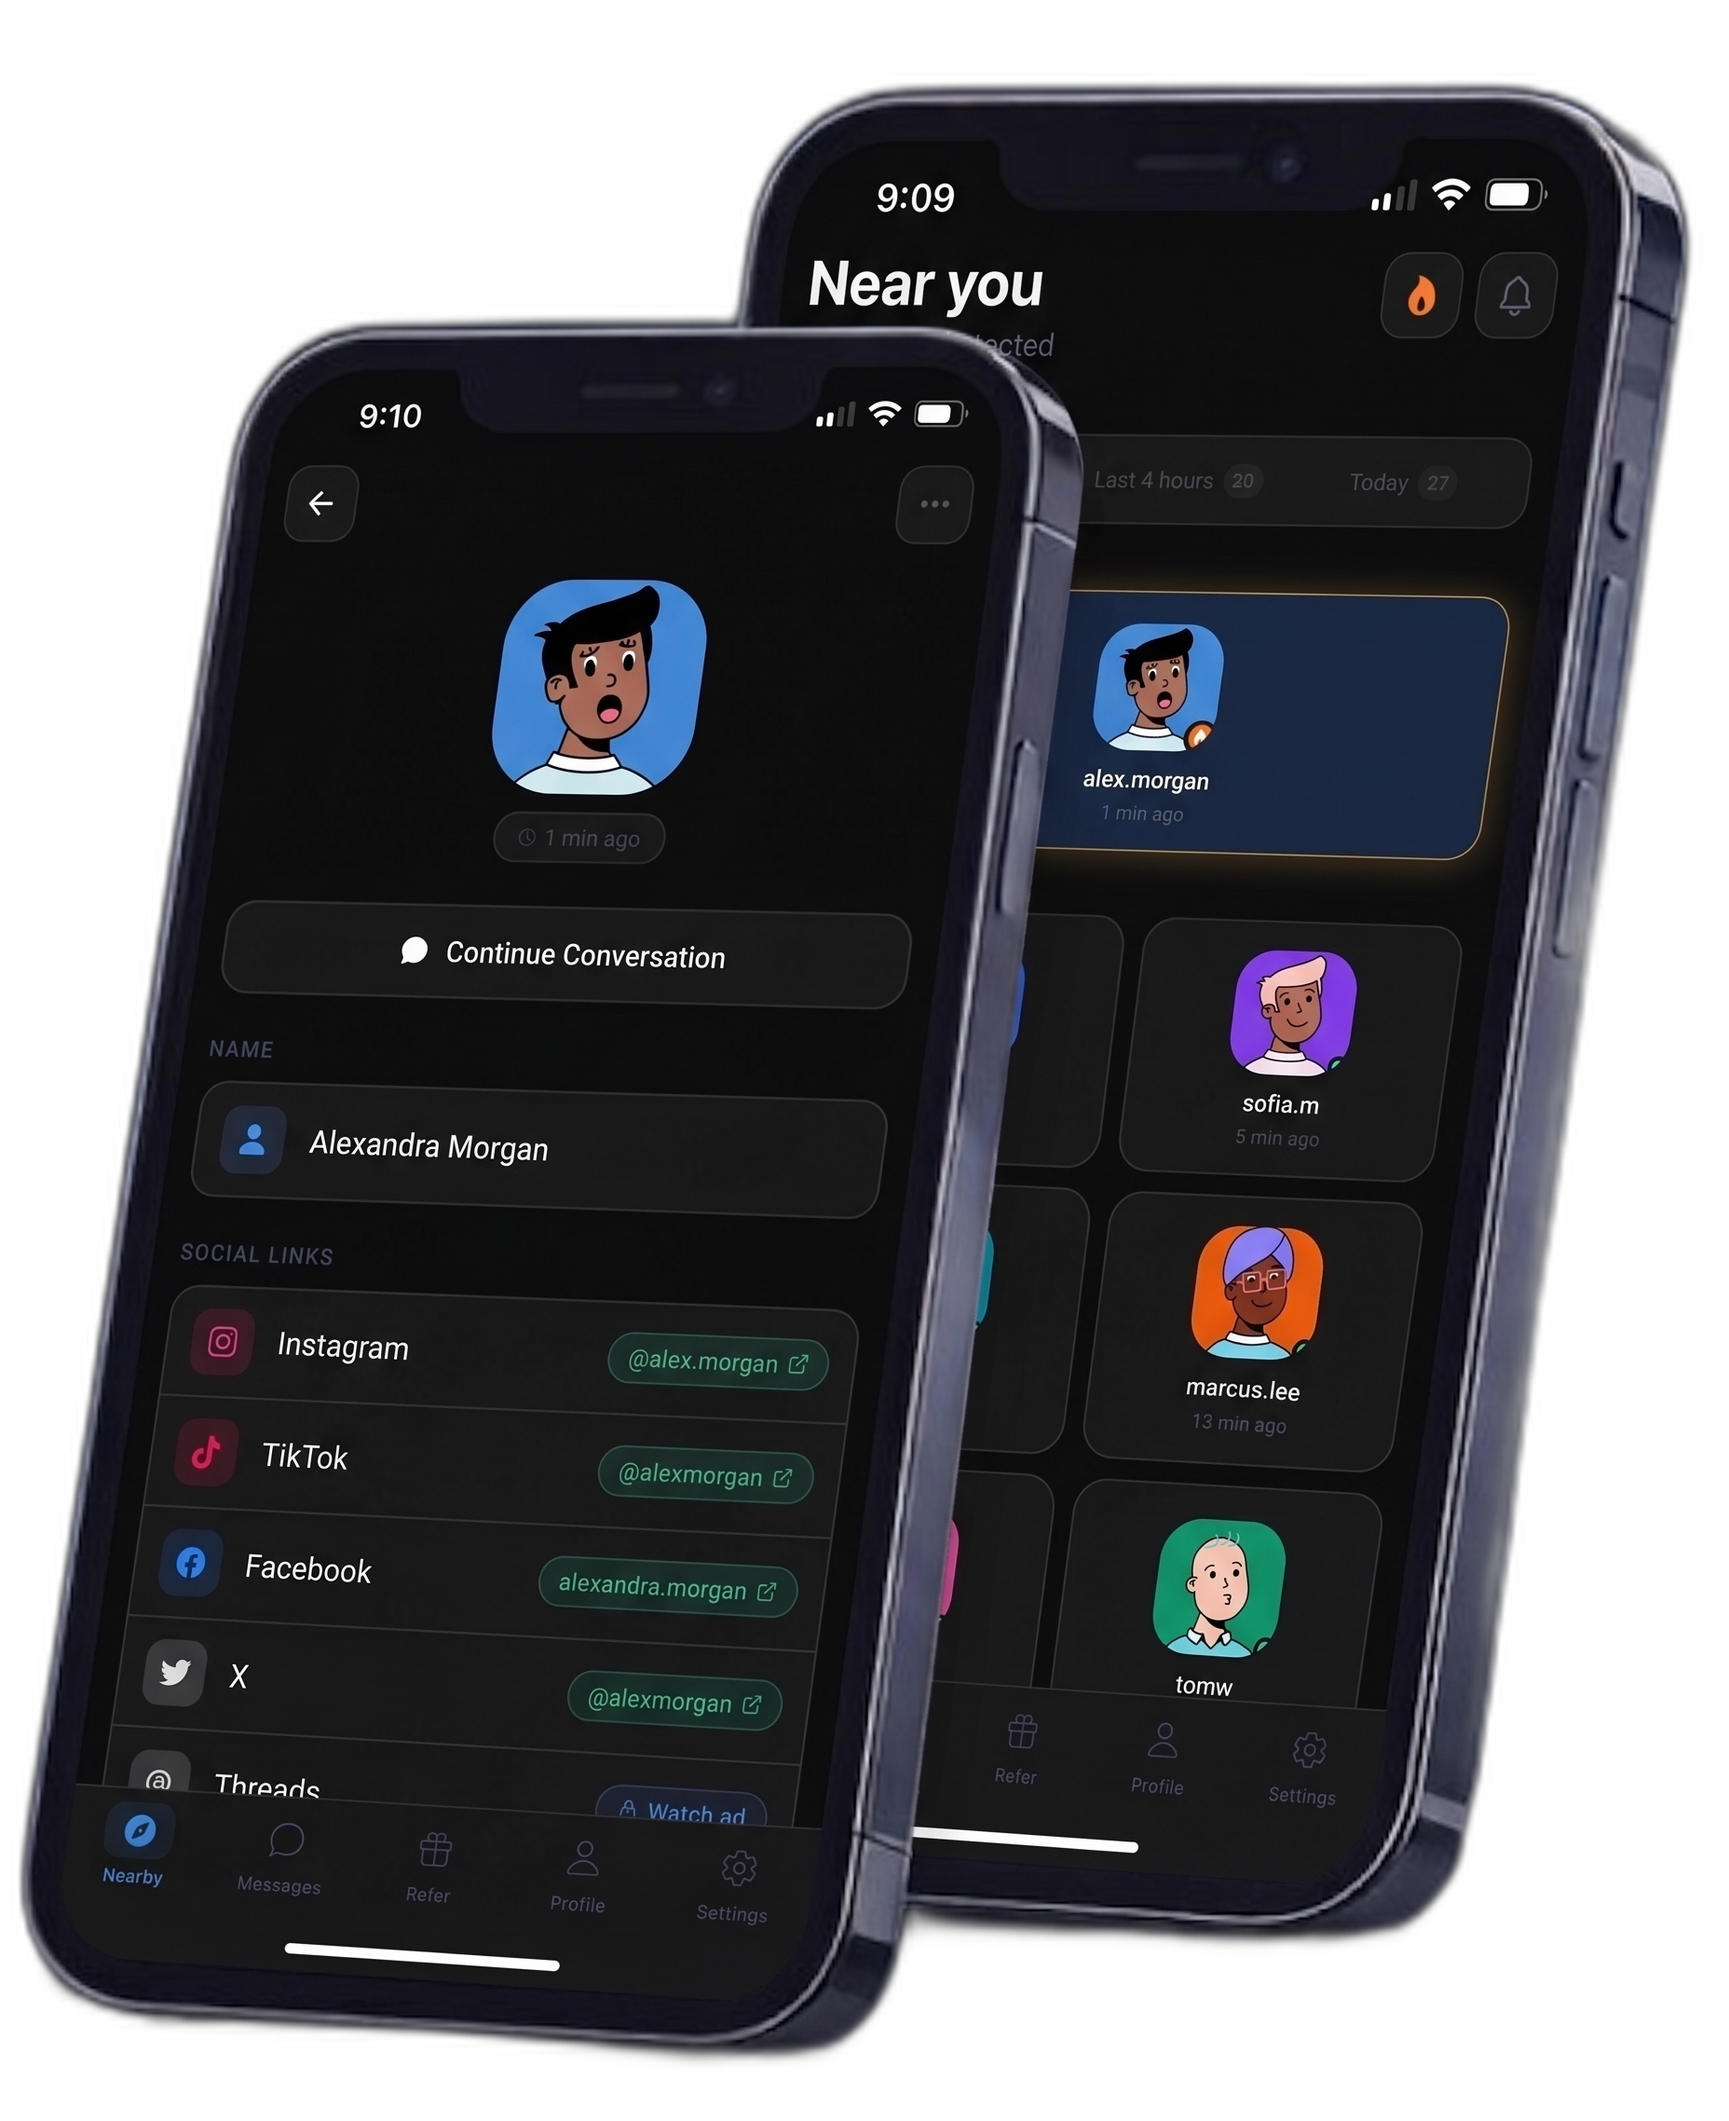
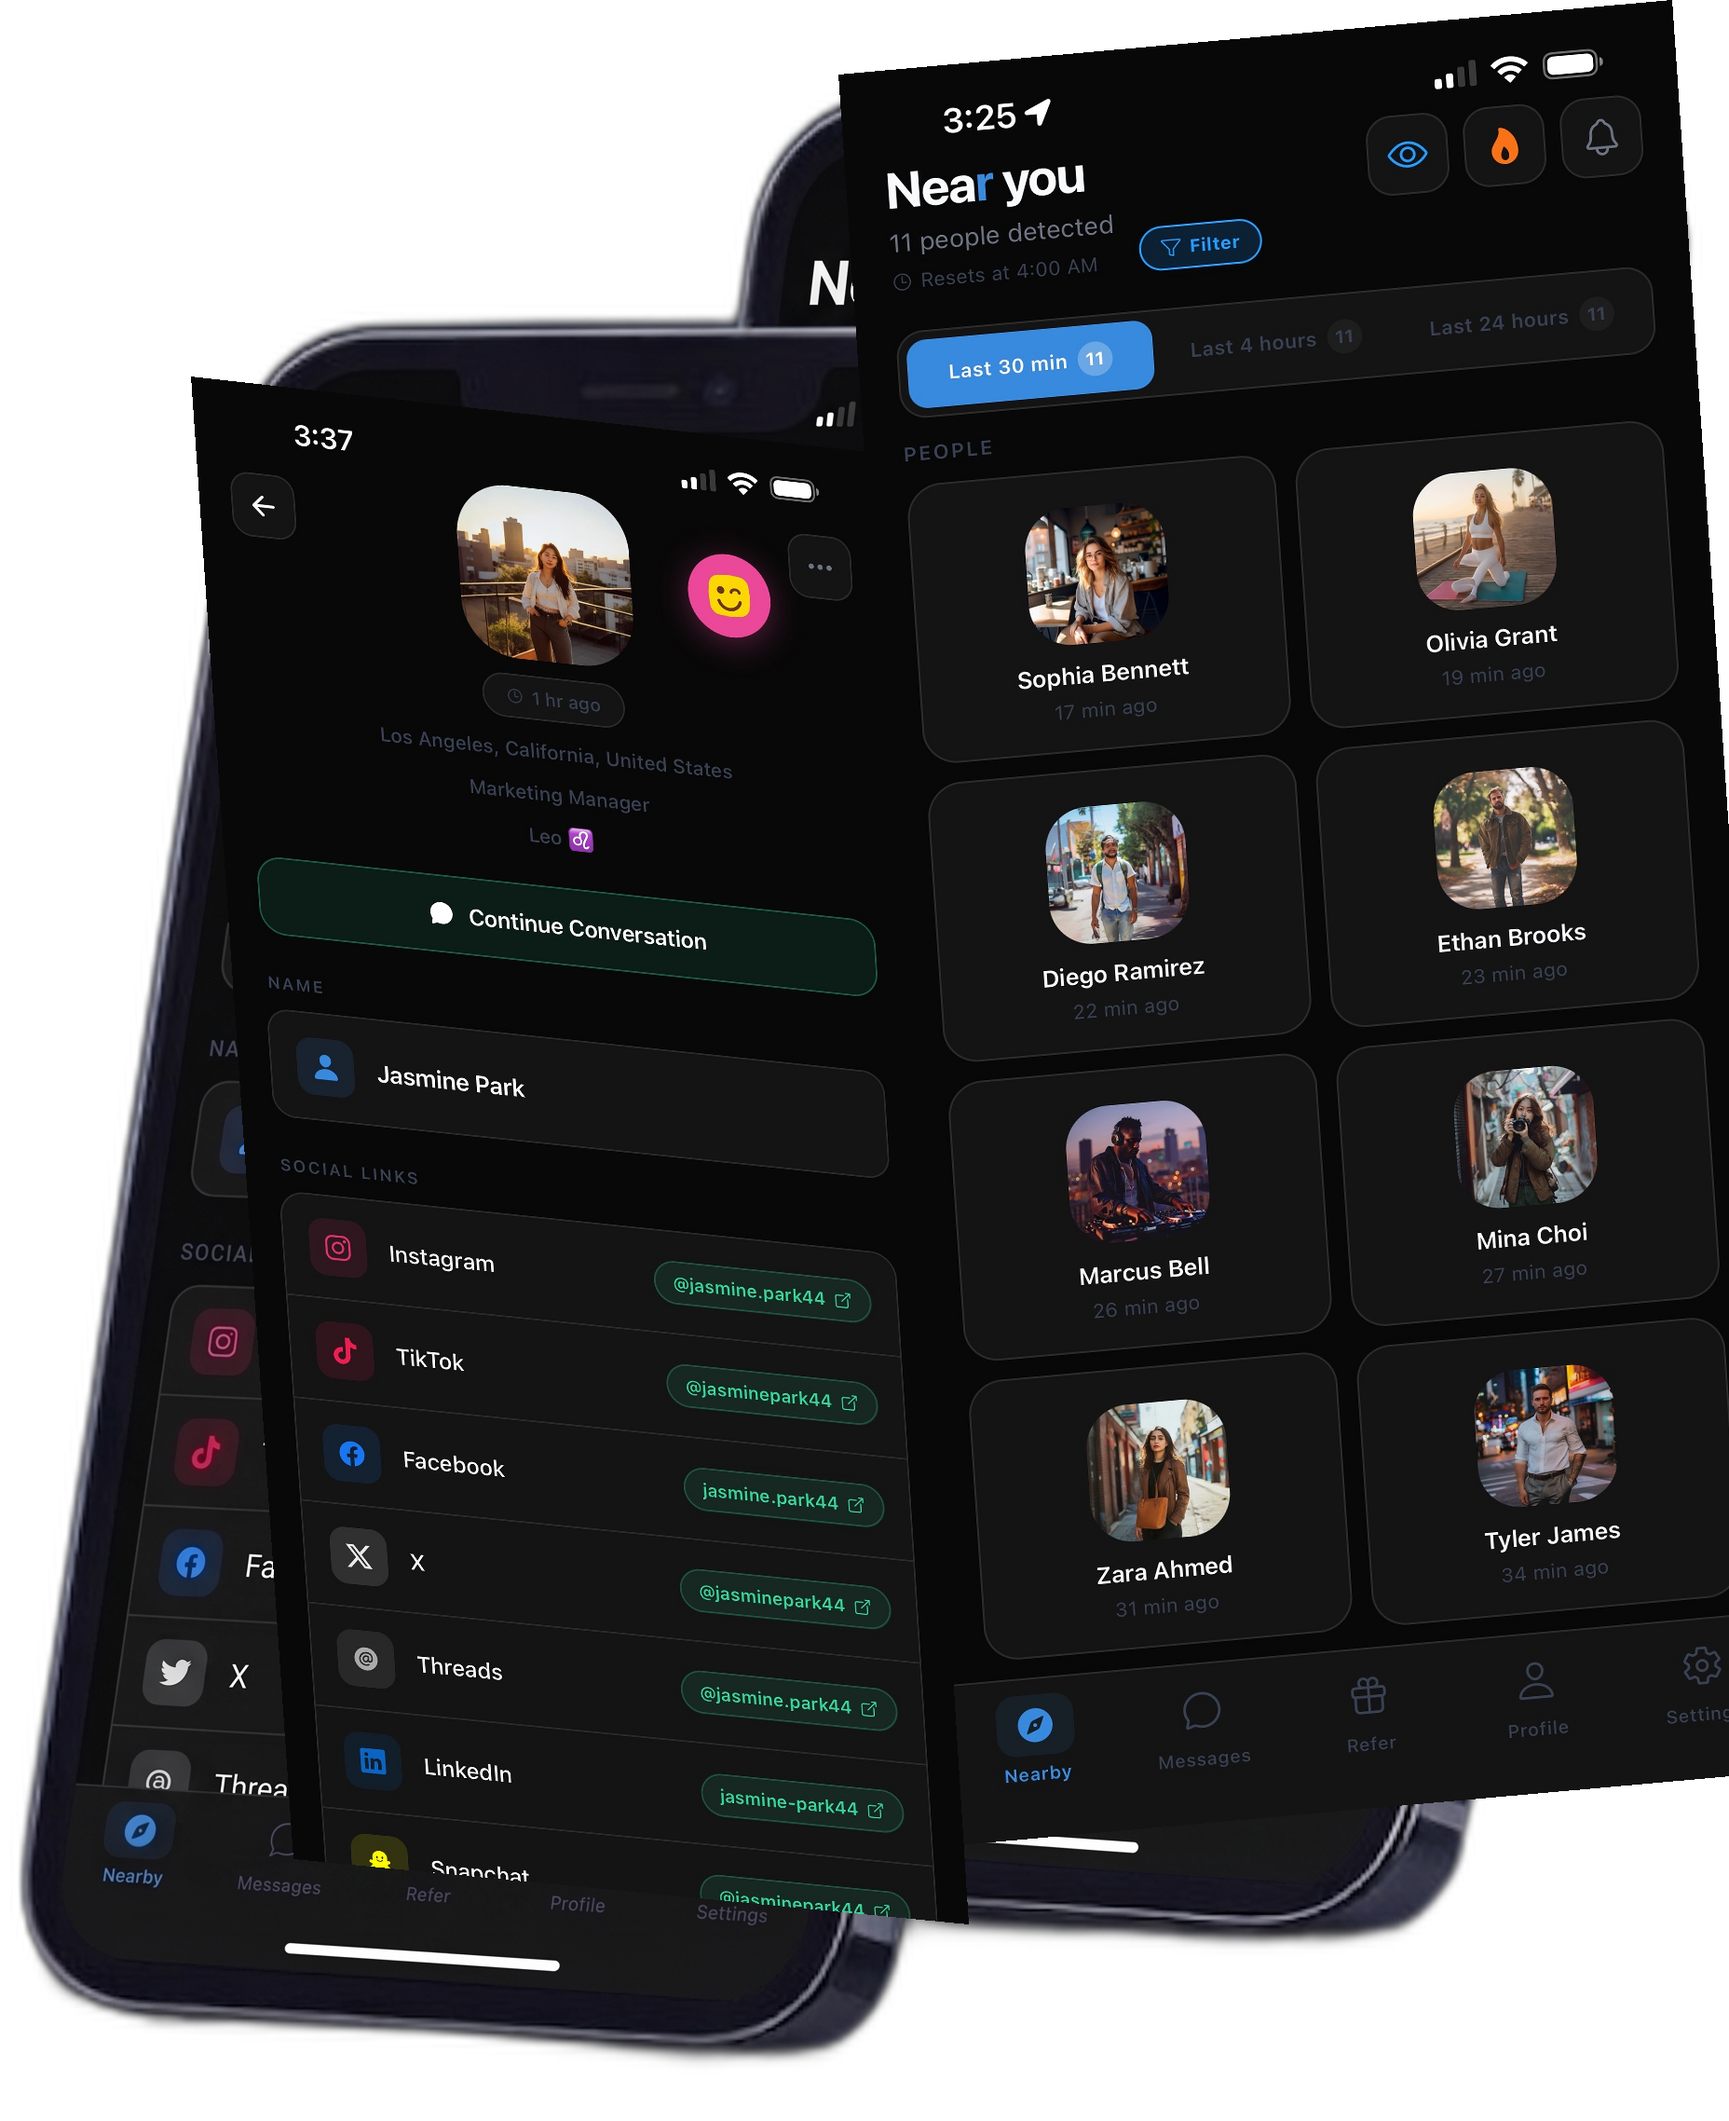
Bake the new phone screens directly into the hero image
What changed: replaced the two phone screens in the hero image so the closer
phone now shows the profile screen and the farther phone shows the Near you
list, and removed the leftover overlay code that was making the screens look
doubled up.

Why: the previous overlay approach left the old screens visible behind the
new ones, so the hero section looked cluttered with two screens stacked on
each phone.

What this means: the hero now shows one clean screen per phone, matching the
polished look the site had before, but with the up-to-date screenshots.

diff --git a/index.html b/index.html
@@ -1342,43 +1342,11 @@
             alt="Near app on two phones"
             style="width: 100%; height: auto; display: block"
           />
-          <!-- Back phone screen overlay -->
-          <img
-            src="13.png"
-            alt=""
-            aria-hidden="true"
-            class="hero-phone-screen hero-phone-screen-back"
-          />
-          <!-- Front phone screen overlay -->
-          <img
-            src="14.png"
-            alt=""
-            aria-hidden="true"
-            class="hero-phone-screen hero-phone-screen-front"
-          />
         </div>
       </div>
     </section>
 
     <style>
-      .hero-phone-screen {
-        position: absolute;
-        display: block;
-        border-radius: 14px;
-        transform-origin: center;
-      }
-      .hero-phone-screen-back {
-        width: 50.5%;
-        top: 4.5%;
-        right: 4%;
-        transform: rotate(7deg);
-      }
-      .hero-phone-screen-front {
-        width: 50.5%;
-        top: 22%;
-        left: 7.5%;
-        transform: rotate(-7deg);
-      }
       @media (max-width: 768px) {
         .near-hero-phones {
           display: none;
